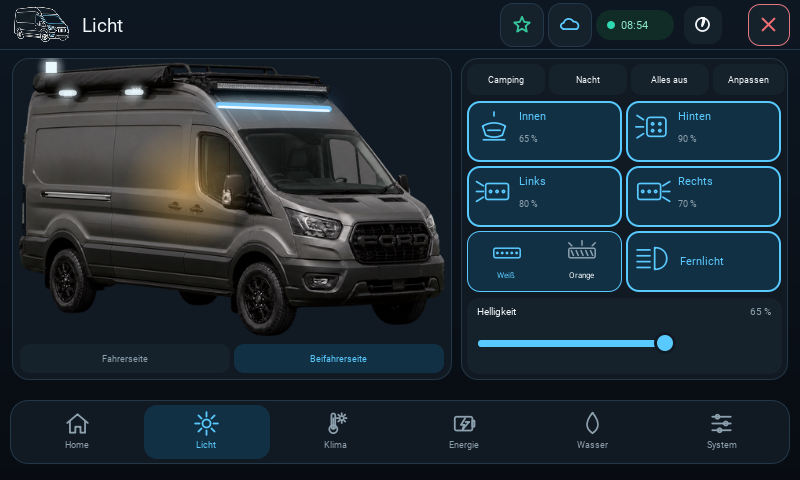
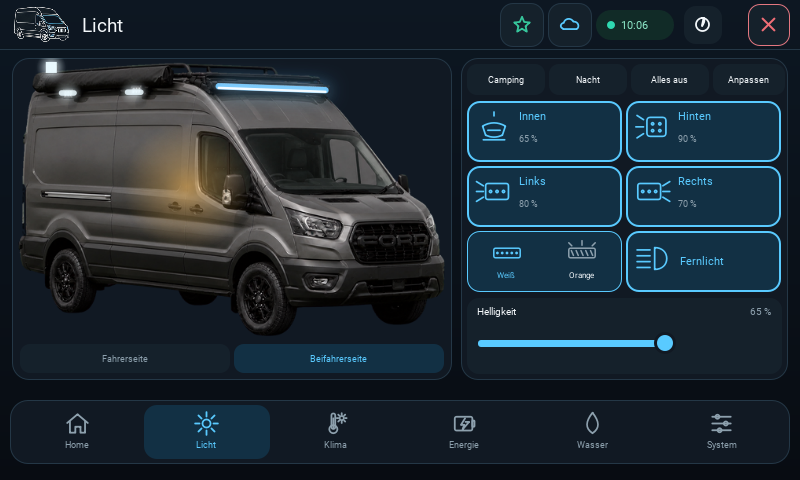
fix(camper): align light geometry and document V2 UI

Changed region(s): [[0.25, 0.1562, 0.4375, 0.25], [0.7812, 0.0312, 0.8125, 0.0625]]

diff --git a/pages/camper/v2/CamperV2Lights.qml b/pages/camper/v2/CamperV2Lights.qml
@@ -123,7 +123,7 @@ Item {
         const sourceY = y * 360 / itemHeight;
         const sideDistance = rightView ? Math.min(pointDistance(sourceX, sourceY, 71, 44.5), pointDistance(sourceX, sourceY, 155.5, 43.5)) : Math.min(pointDistance(sourceX, sourceY, 376, 37.5), pointDistance(sourceX, sourceY, 462.5, 38.5));
         const rearDistance = pointDistance(sourceX, sourceY, rightView ? 50 : 439, 12);
-        const highBeamDistance = rightView ? lineDistance(sourceX, sourceY, 263, 60, 403, 65) : lineDistance(sourceX, sourceY, 168, 49, 317, 49);
+        const highBeamDistance = rightView ? lineDistance(sourceX, sourceY, 263, 36, 399, 41) : lineDistance(sourceX, sourceY, 168, 49, 317, 49);
         const nearest = Math.min(sideDistance, rearDistance, highBeamDistance);
 
         // Keep the hit areas forgiving without turning blank roof/body pixels

diff --git a/components/camper/v2/CamperV2VehicleLightOverlay.qml b/components/camper/v2/CamperV2VehicleLightOverlay.qml
@@ -115,9 +115,9 @@ Canvas {
             fixtureSquare(ctx, rightView ? 50 : 439, 12, 14, .92, .98, 1, .56 + rearLevel / 210);
 
         const frontX1 = sourceX(rightView ? 263 : 168);
-        const frontY1 = sourceY(rightView ? 60 : 49);
-        const frontX2 = sourceX(rightView ? 403 : 317);
-        const frontY2 = sourceY(rightView ? 65 : 49);
+        const frontY1 = sourceY(rightView ? 36 : 49);
+        const frontX2 = sourceX(rightView ? 399 : 317);
+        const frontY2 = sourceY(rightView ? 41 : 49);
         if (highBeamOn) {
             ctx.save();
             ctx.lineCap = "round";

diff --git a/tests/camper_v2_vehicle_lights_contract.py b/tests/camper_v2_vehicle_lights_contract.py
@@ -31,9 +31,9 @@ class CamperV2VehicleLightsContractTest(unittest.TestCase):
             "454, 38.5, 471, 38.5",
             "rightView ? 50 : 439, 12",
             "rightView ? 263 : 168",
-            "rightView ? 60 : 49",
-            "rightView ? 403 : 317",
-            "rightView ? 65 : 49",
+            "rightView ? 36 : 49",
+            "rightView ? 399 : 317",
+            "rightView ? 41 : 49",
             "rightView ? 223 : 402",
         ):
             self.assertIn(coordinates, source)
@@ -49,7 +49,7 @@ class CamperV2VehicleLightsContractTest(unittest.TestCase):
             "376, 37.5",
             "462.5, 38.5",
             "rightView ? 50 : 439, 12",
-            "263, 60, 403, 65",
+            "263, 36, 399, 41",
             "168, 49, 317, 49",
         ):
             self.assertIn(coordinates, source)

diff --git a/README.md b/README.md
@@ -8,10 +8,6 @@ nativ auf dem GX Touch und als WebAssembly-Oberfläche in der Victron Remote
 Console. Der Cerbo verwaltet Zustände, Einstellungen, Wetter und Tide zentral;
 GX/WASM, Ford SYNC und Node-RED verwenden dieselben Daten- und Bedienverträge.
 
-> **This code is based on Victron Energy code.** Dieses Repository ist derzeit
-> technisch aus Victrons Historie abgeleitet, wird von GitHub aber nicht als
-> formaler Fork geführt. Es ist kein offizielles Produkt von Victron Energy.
-
 [Funktionen](#funktionen) · [Galerie](#interaktive-galerie) ·
 [Victron-Rückkehr](#victron-bleibt-im-hintergrund-aktiv) ·
 [Wetter & Tide](#wetter-und-tide) · [Architektur](#architektur-und-sicherheit) ·
@@ -57,6 +53,8 @@ werden direkt aus dem lokalen Qt-6-Preview des jeweiligen QML-Stands in
 
 ![Home mit Energie, Klima und Schnellzugriff](docs/camper/screens/v2-home-night.png)
 
+![Home im Tagmodus](docs/camper/screens/v2-home-day.png)
+
 </details>
 
 <details>
@@ -66,12 +64,18 @@ werden direkt aus dem lokalen Qt-6-Preview des jeweiligen QML-Stands in
 
 ![Licht Beifahrerseite](docs/camper/screens/v2-lights-passenger-night.png)
 
+![Licht Fahrerseite im Tagmodus](docs/camper/screens/v2-lights-driver-day.png)
+
+![Licht Beifahrerseite im Tagmodus](docs/camper/screens/v2-lights-passenger-day.png)
+
 </details>
 
 <details>
 <summary><strong>Klima</strong></summary>
 
 ![Klima mit Komfortregelung, Autoterm und MaxxFan](docs/camper/screens/v2-climate-night.png)
+
+![Klima im Tagmodus](docs/camper/screens/v2-climate-day.png)
 
 </details>
 
@@ -82,12 +86,18 @@ werden direkt aus dem lokalen Qt-6-Preview des jeweiligen QML-Stands in
 
 ![Energiequellen](docs/camper/screens/v2-energy-sources-night.png)
 
+![Energie 12 V und 230 V im Tagmodus](docs/camper/screens/v2-energy-power-day.png)
+
+![Energiequellen im Tagmodus](docs/camper/screens/v2-energy-sources-day.png)
+
 </details>
 
 <details>
 <summary><strong>Wasser</strong></summary>
 
 ![Frischwasser und Wasserpumpe](docs/camper/screens/v2-water-night.png)
+
+![Frischwasser und Wasserpumpe im Tagmodus](docs/camper/screens/v2-water-day.png)
 
 </details>
 
@@ -96,6 +106,8 @@ werden direkt aus dem lokalen Qt-6-Preview des jeweiligen QML-Stands in
 
 ![System, Verbindungen und Victron-Rückkehr](docs/camper/screens/v2-system-night.png)
 
+![System im Tagmodus](docs/camper/screens/v2-system-day.png)
+
 </details>
 
 <details>
@@ -103,12 +115,16 @@ werden direkt aus dem lokalen Qt-6-Preview des jeweiligen QML-Stands in
 
 ![Cerbo-Favoriten](docs/camper/screens/v2-favorites-night.png)
 
+![Cerbo-Favoriten im Tagmodus](docs/camper/screens/v2-favorites-day.png)
+
 </details>
 
 <details>
 <summary><strong>Wetter- und Tidepanel</strong></summary>
 
 ![DWD-Wetter und BSH-Nordsee-Tide](docs/camper/screens/v2-weather-night.png)
+
+![DWD-Wetter und BSH-Nordsee-Tide im Tagmodus](docs/camper/screens/v2-weather-day.png)
 
 </details>
 
@@ -190,6 +206,8 @@ Die Lizenzierung ist bewusst getrennt:
   Kommerzielle Nutzung dieser CamperControl-Anteile ist nicht erlaubt.
 - Die genaue Zuordnung und Hinweise zu Drittmaterial stehen in
   [NOTICE.md](NOTICE.md).
+- Aus Lucide abgeleitete Navigationssymbole behalten ihre
+  [ISC-/MIT-Lizenz](LICENSE-LUCIDE.txt).
 - DWD- und BSH-Daten bleiben separat unter CC BY 4.0; Quellenangaben und
   Verarbeitungshinweise stehen in [DATA-LICENSES.md](DATA-LICENSES.md).
 

diff --git a/NOTICE.md b/NOTICE.md
@@ -28,4 +28,10 @@ Commercial use of those CamperControl portions is not permitted by that license.
 
 ## Third-party material
 
+The shared CamperControl icon library combines original device- and
+vehicle-control drawings with selected navigation icons adapted from Lucide.
+Lucide is licensed under ISC; the Lucide icons derived from Feather are
+additionally covered by MIT. The complete notices are in
+[`LICENSE-LUCIDE.txt`](LICENSE-LUCIDE.txt).
+
 Victron Energy, Ford, DWD, BSH and other names and marks belong to their respective owners. DWD and BSH data remains separately licensed under CC BY 4.0 and is not restricted by the CamperControl noncommercial license. The exact sources, attribution and processing notices are in [DATA-LICENSES.md](DATA-LICENSES.md). Third-party libraries retain their own license files. No trademark or third-party artwork license is granted here.
